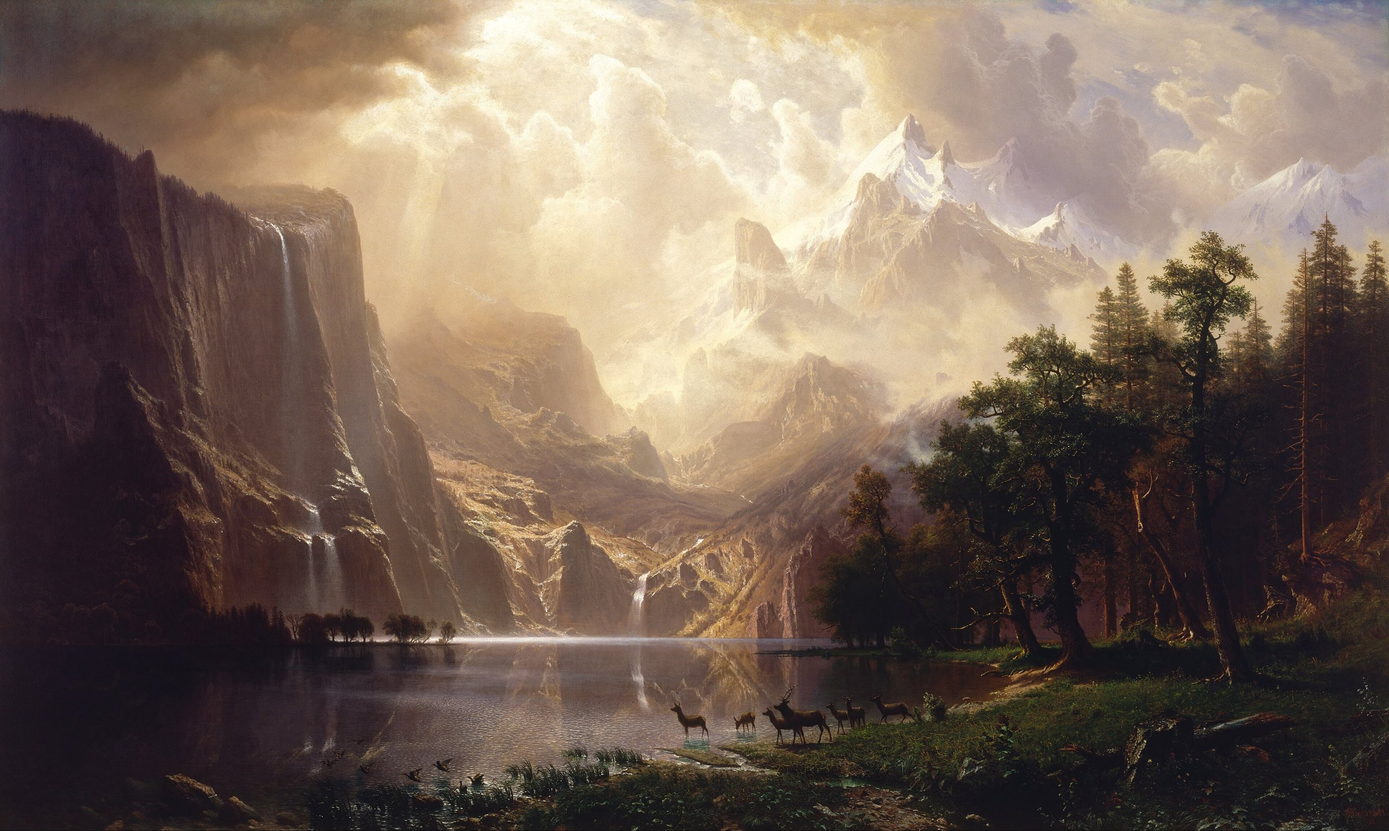
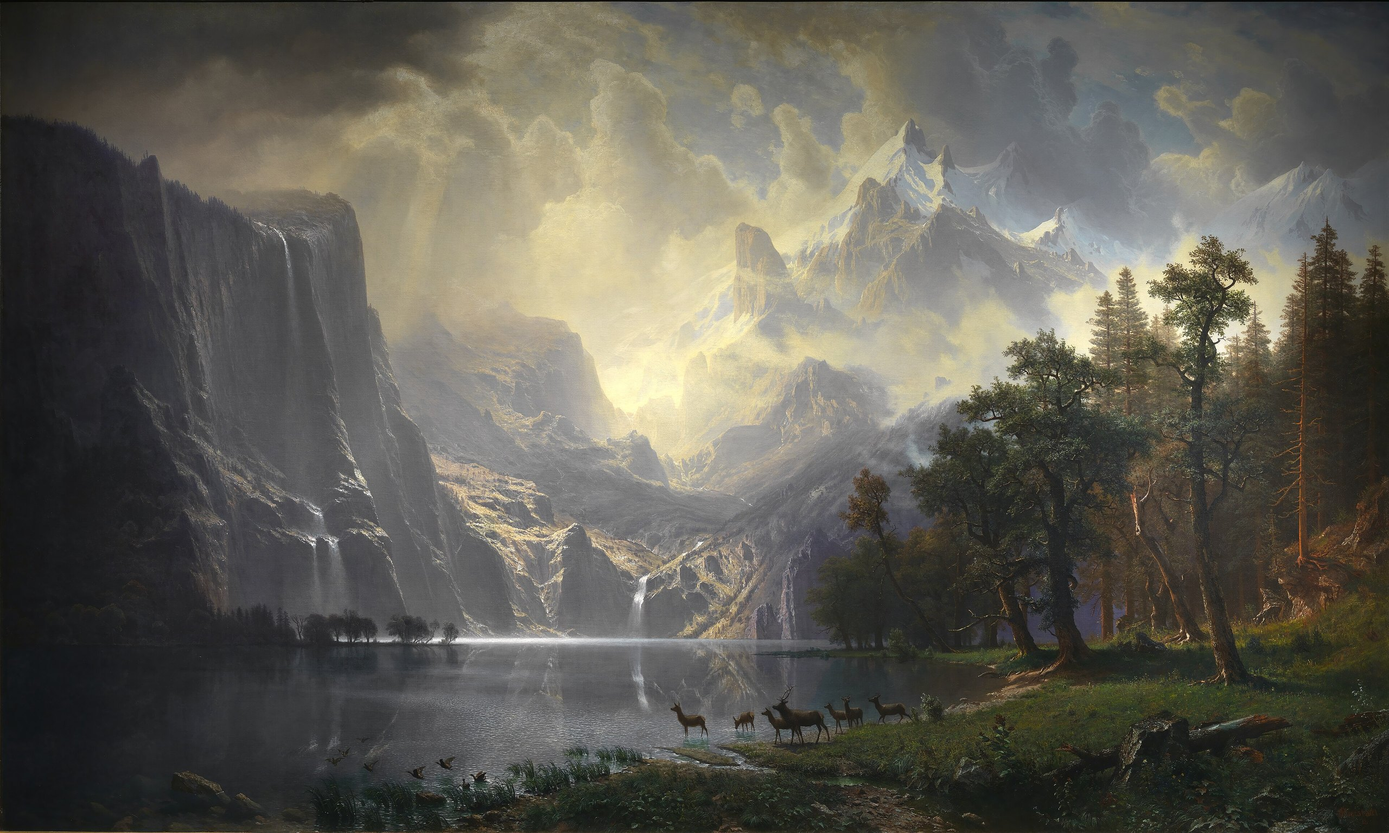
feat(wallpapers): truer-colour scans of Sierra Nevada and Ulysses
Bierstadt from the Smithsonian's own photograph (10500 px, resized to 2560),
Turner from the Yorck Project scan (1920 px, as published).

diff --git a/browser/wallpapers/CREDITS.md b/browser/wallpapers/CREDITS.md
@@ -1,12 +1,12 @@
 # Built-in pictures
 
 Customize's built-in backgrounds, shipped beside the browser as `mast-wallpapers/`
-(remote/build.sh). Each is resized to at most 2560 px wide.
+(remote/build.sh). Each is at most 2560 px wide.
 
 | File | Picture | Source | Rights |
 |---|---|---|---|
-| `sierra-nevada.jpg` (default) | *Among the Sierra Nevada, California*, Albert Bierstadt, 1868 (Smithsonian American Art Museum) | [Wikimedia Commons](https://commons.wikimedia.org/wiki/File:Albert_Bierstadt_-_Among_the_Sierra_Nevada,_California_-_Google_Art_Project.jpg) (Google Arts & Culture) | Public domain |
-| `ulysses.jpg` | *Ulysses Deriding Polyphemus – Homer's Odyssey*, J. M. W. Turner, 1829 (National Gallery, London) | [Wikimedia Commons](https://commons.wikimedia.org/wiki/File:Turner_-_Ulysses_deriding_Polyphemus_1829.jpg) | Public domain |
+| `sierra-nevada.jpg` (default) | *Among the Sierra Nevada, California*, Albert Bierstadt, 1868 (Smithsonian American Art Museum) | [Wikimedia Commons](https://commons.wikimedia.org/wiki/File:Bierstadt_-_Among_the_Sierra_Nevada_Mountains_-_1868.jpg) (the museum's own photograph) | Public domain |
+| `ulysses.jpg` | *Ulysses Deriding Polyphemus – Homer's Odyssey*, J. M. W. Turner, 1829 (National Gallery, London) | [Wikimedia Commons](https://commons.wikimedia.org/wiki/File:Joseph_Mallord_William_Turner_064.jpg) (The Yorck Project; 1920 px, the largest of this scan) | Public domain |
 | `ninth-wave.jpg` | *The Ninth Wave*, Ivan Aivazovsky, 1850 (State Russian Museum) | [Wikimedia Commons](https://commons.wikimedia.org/wiki/File:Hovhannes_Aivazovsky_-_The_Ninth_Wave_-_Google_Art_Project.jpg) (Google Arts & Culture) | Public domain |
 
 The paintings are long out of copyright, and faithful photographs of them add none

diff --git a/CHANGELOG.md b/CHANGELOG.md
@@ -6,6 +6,8 @@ release's version (docs/RELEASING.md).
 
 ## Unreleased
 
+- Truer-colour scans of *Among the Sierra Nevada* and *Ulysses Deriding Polyphemus* for the built-in backgrounds.
+
 ## 157.0.8103.78-202611191046
 
 - New built-in backgrounds, all public-domain paintings: *Among the Sierra Nevada* by Albert Bierstadt (the new default), *Ulysses Deriding Polyphemus* by J. M. W. Turner and *The Ninth Wave* by Ivan Aivazovsky. They replace the NASA photos.
